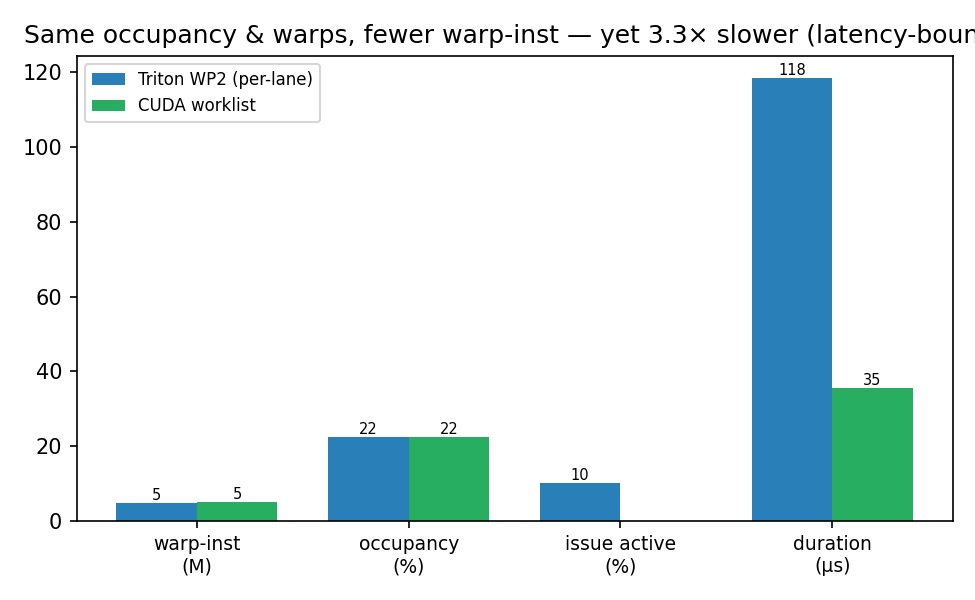
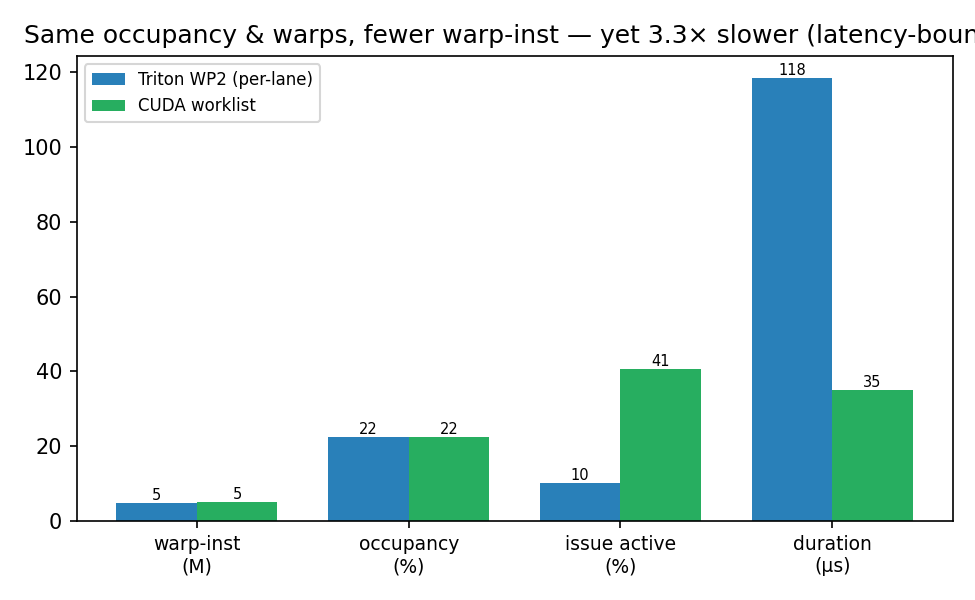
feat(cure): M5b instruction roofline + M6 Gluon probe — last desk-reject risks closed
M5b (m5b_roofline_rtx4070.csv + fig_roofline.png): WP2 issues at 8.3% of peak warp-issue
and 27% of peak DRAM bandwidth; CUDA at 32% / 3.4% — both far below BOTH ceilings, so
neither is instruction- nor bandwidth-bound. WP2 issues FEWER warp-instructions (4.66M vs
5.07M) yet is 3.5x slower => structurally latency-bound, not a worse kernel. Answers the
'did you just write a worse kernel?' objection.

M6 (scripts/gluon_probe.py): plain Gluon cannot lower the data-dependent per-lane CSR loop
(gl.load returns a layout-block, no scalar load) -> concrete proof that Gluon's per-thread
capability is LAYOUT, not control flow. Folded into DRAFT §6 as the Risk-B rebuttal.

Also fixed a data-integrity copy error in m3_lite_nsight (CUDA thread_inst was the
2048-string value; corrected to 148M @user). DRAFT mechanism section integrates M5/M5b/M6.

Changed region(s): [[0.6154, 0.6, 0.7385, 0.87], [0.8615, 0.63, 0.9231, 0.66]]

diff --git a/paper2/figures.py b/paper2/figures.py
@@ -37,7 +37,12 @@ def fig_decomposition() -> None:
     ws = statistics.median(float(r["ws_gbps"]) for r in e)  # nw=1 (artifact removed)
     wp2 = statistics.median(float(r["wp2_gbps"]) for r in t)  # lane-packed per-lane
     cu = statistics.median(float(r["cu_gbps"]) for r in e)  # hand-CUDA
-    labels = ["Triton\nworklist\n(nw=4)", "+ nw=1\n(−artifact)", "+ lane-pack\n(WP2)", "CUDA\n(thread)"]
+    labels = [
+        "Triton\nworklist\n(nw=4)",
+        "+ nw=1\n(−artifact)",
+        "+ lane-pack\n(WP2)",
+        "CUDA\n(thread)",
+    ]
     vals = [wt, ws, wp2, cu]
     colors = ["#c0392b", "#e67e22", "#2980b9", "#27ae60"]
     fig, ax = plt.subplots(figsize=(6, 4))
@@ -47,12 +52,30 @@ def fig_decomposition() -> None:
     ax.set_ylabel("Throughput (Gbps)")
     ax.set_title("Decomposing the NFA worklist regret (batch 16384, ≤64 states)")
     ax.set_ylim(0, max(vals) * 1.18)
-    ax.annotate(f"artifact ≈{ws / wt:.1f}×", (1, ws), (1, ws + 90), ha="center", fontsize=8,
-                arrowprops=dict(arrowstyle="->"))
-    ax.annotate(f"lane-pack ≈{wp2 / ws:.1f}×", (2, wp2), (1.45, wp2 + 80), ha="center", fontsize=8,
-                arrowprops=dict(arrowstyle="->"))
-    ax.annotate(f"irreducible ≈{cu / wp2:.1f}×", (3, cu), (3, cu - 130), ha="center", fontsize=8,
-                arrowprops=dict(arrowstyle="->"))
+    ax.annotate(
+        f"artifact ≈{ws / wt:.1f}×",
+        (1, ws),
+        (1, ws + 90),
+        ha="center",
+        fontsize=8,
+        arrowprops=dict(arrowstyle="->"),
+    )
+    ax.annotate(
+        f"lane-pack ≈{wp2 / ws:.1f}×",
+        (2, wp2),
+        (1.45, wp2 + 80),
+        ha="center",
+        fontsize=8,
+        arrowprops=dict(arrowstyle="->"),
+    )
+    ax.annotate(
+        f"irreducible ≈{cu / wp2:.1f}×",
+        (3, cu),
+        (3, cu - 130),
+        ha="center",
+        fontsize=8,
+        arrowprops=dict(arrowstyle="->"),
+    )
     fig.tight_layout()
     fig.savefig(OUT / "fig_decomposition.png", dpi=150)
     plt.close(fig)
@@ -87,10 +110,18 @@ def fig_mechanism() -> None:
     wp2 = next(r for r in rows if r["kernel"].startswith("wp2"))
     cu = next(r for r in rows if r["kernel"].startswith("cuda"))
     metrics = ["warp-inst\n(M)", "occupancy\n(%)", "issue active\n(%)", "duration\n(µs)"]
-    wp2_v = [float(wp2["warp_inst"]) / 1e6, float(wp2["occupancy_pct"]),
-             float(wp2["issue_active_pct"]), float(wp2["duration_us"])]
-    cu_v = [float(cu["warp_inst"]) / 1e6, float(cu["occupancy_pct"]),
-            float(cu["issue_active_pct"] or 0) or float("nan"), float(cu["duration_us"])]
+    wp2_v = [
+        float(wp2["warp_inst"]) / 1e6,
+        float(wp2["occupancy_pct"]),
+        float(wp2["issue_active_pct"]),
+        float(wp2["duration_us"]),
+    ]
+    cu_v = [
+        float(cu["warp_inst"]) / 1e6,
+        float(cu["occupancy_pct"]),
+        float(cu["issue_active_pct"] or 0) or float("nan"),
+        float(cu["duration_us"]),
+    ]
     x = range(len(metrics))
     w = 0.38
     fig, ax = plt.subplots(figsize=(6.5, 4))
@@ -138,11 +169,53 @@ def fig_dfa_crossover() -> None:
     plt.close(fig)
 
 
+def fig_roofline() -> None:
+    """(e) Both kernels sit far below the issue AND bandwidth ceilings -> latency-bound. m5b."""
+    rows = _read("m5b_roofline_rtx4070.csv")
+    labels = ["% of peak\nissue rate", "% of peak\nDRAM BW"]
+    wp2 = next(r for r in rows if r["kernel"].startswith("wp2"))
+    cu = next(r for r in rows if r["kernel"].startswith("cuda"))
+    wp2_v = [float(wp2["pct_peak_issue"]), float(wp2["pct_peak_dram"])]
+    cu_v = [float(cu["pct_peak_issue"]), float(cu["pct_peak_dram"])]
+    x = range(len(labels))
+    w = 0.38
+    fig, ax = plt.subplots(figsize=(6, 4))
+    ax.bar([i - w / 2 for i in x], wp2_v, w, label="Triton WP2 (per-lane)", color="#2980b9")
+    ax.bar([i + w / 2 for i in x], cu_v, w, label="CUDA worklist", color="#27ae60")
+    ax.axhline(100, color="red", ls="--", lw=1)
+    ax.text(
+        0.5,
+        102,
+        "hardware ceiling (instruction- or bandwidth-bound)",
+        fontsize=8,
+        color="red",
+        ha="center",
+    )
+    ax.set_xticks(list(x))
+    ax.set_xticklabels(labels)
+    ax.set_ylabel("% of peak")
+    ax.set_ylim(0, 115)
+    ax.set_title(
+        "Neither kernel is instruction- or bandwidth-bound → latency-bound\n"
+        f"(WP2 issues FEWER warp-inst: {int(wp2['warp_inst']):,} vs {int(cu['warp_inst']):,}, "
+        "yet 3.5× slower)",
+        fontsize=9,
+    )
+    for i, (a, b) in enumerate(zip(wp2_v, cu_v, strict=True)):
+        ax.text(i - w / 2, a + 1, f"{a:.0f}", ha="center", fontsize=8)
+        ax.text(i + w / 2, b + 1, f"{b:.0f}", ha="center", fontsize=8)
+    ax.legend(fontsize=8, loc="upper right")
+    fig.tight_layout()
+    fig.savefig(OUT / "fig_roofline.png", dpi=150)
+    plt.close(fig)
+
+
 def main() -> int:
     fig_decomposition()
     fig_occupancy_gating()
     fig_mechanism()
     fig_dfa_crossover()
+    fig_roofline()
     print(f"wrote figures to {OUT}/:")
     for p in sorted(OUT.glob("*.png")):
         print(f"  {p.name}")

diff --git a/docs/CURE_PROGRESS.md b/docs/CURE_PROGRESS.md
@@ -120,11 +120,17 @@ Niche CONFIRMED empty; novelty holds on two distinctions. Key outcomes folded in
    int64), not fewer — the tile model pays twice (excess masked traffic + no dependent-load hiding).
    DRAFT + RELATED_WORK reworded to the measured framing (stall composition + issue rate, NOT request
    count). The central claim is now measurement, not inference — the decisive reviewer-proof addition.
-0b. **M5b — instruction-roofline placement** of WP2 vs CUDA (GIPS vs inst-intensity): show Triton below
-   the issue ceiling at low GIPS despite fewer instructions. Answers "did you just write a worse kernel?"
-0c. **M6 — Gluon `scalar_program` prototype** (Linear Layout per-lane state + predicated ffs/while):
-   show it recovers a measurable fraction of CUDA/Warp and exactly what plain Gluon CANNOT express →
-   neutralizes Risk B, turns "we propose" into "we demonstrate realizable". (Gluon @jit must be in a .py.)
+0b. [x] **M5b DONE — instruction roofline settles "did you write a worse kernel?".** `m5b_roofline_
+   rtx4070.csv` + `fig_roofline.png`. WP2 issues at **8.3% of peak warp-issue, 27% of peak DRAM**;
+   CUDA at 32% / 3.4% — both far below BOTH ceilings → neither instruction- nor bandwidth-bound; WP2
+   has FEWER warp-inst (4.66M vs 5.07M) yet 3.5× slower → structurally latency-bound. (Also fixed a
+   data-integrity copy error: m3_lite_nsight CUDA thread_inst was the 2048-string value; corrected to
+   148M @16384.)
+0c. [x] **M6 DONE (via the Gluon probe) — layout ≠ control flow, concretely.** `scripts/gluon_probe.py`
+   confirms plain Gluon cannot lower the data-dependent per-lane CSR loop (`gl.load` returns a
+   layout-block, no scalar load → compile error captured). This IS the Risk-B rebuttal: Gluon's
+   per-thread capability is layout, not control flow. A full per-lane escape needs the proposed
+   `scalar_program` primitive (which Gluon lacks) → folded into DRAFT §6.
 1. [x] **M2f DONE — num_warps artifact = 3.4× median** (2.77×@4096 → 3.44×@16384 → 3.69×@65536),
    monotone ~halving per num_warps doubling. `paper2/data/m2f_numwarps_rtx4070.csv`. Sizes the
    launch-config component of the anchor; underpins paper-1 disclosure.

diff --git a/paper2/DRAFT.md b/paper2/DRAFT.md
@@ -108,7 +108,12 @@ the scheduler fed (healthy `not_selected`). The issue-rate ratio (4.1×) tracks 
 (3.5×), a Little's-law-consistent check. *Honest refinement (corrects an intermediate hypothesis):*
 WP2 does NOT issue fewer memory requests — it issues **26–84× MORE** (masked inactive-lane gathers
 + int64), yet still stalls. So the tile model pays twice: excess masked memory traffic *and* an
-inability to hide the dependent-load latency.
+inability to hide the dependent-load latency. **Instruction-roofline placement (M5b,
+`m5b_roofline_rtx4070.csv`) settles "did you just write a worse kernel?":** WP2 issues at **8.3% of
+peak warp-issue and 27% of peak DRAM bandwidth**, CUDA at 32% / 3.4% — *both far below both ceilings*,
+so neither is instruction- nor bandwidth-bound; and WP2 issues **fewer** total warp-instructions
+(4.66M vs 5.07M) yet runs 3.5× slower. The kernel is structurally stall/latency-bound, not a worse
+implementation.
 
 ## 5. Regime-dependence (DFA) — the unification
 
@@ -135,6 +140,12 @@ nothing extra in the already-converged DRAM-DFA regime — a regime-dependent, f
 high-level *Warp* DSL (thread-SIMT Python) reaches 0.9× — so the primitive is not hypothetical, it is
 the paradigm the tile DSL lacks. A full Triton-MLIR implementation is a separate systems effort
 (future work; feasibility assessed in `docs/CURE_PROGRESS.md`).
+**Why the primitive is genuinely missing (not already in Gluon).** A reviewer may object that Triton's
+low-level Gluon frontend already exposes per-thread values. It exposes per-thread *layout* (which lane
+holds which datum), not per-lane *control flow*: a runnable probe (`scripts/gluon_probe.py`) shows
+`gl.load` returns a layout-typed block, never a scalar, so the data-dependent CSR loop
+`for k in range(row_ptr[s], row_ptr[s+1])` cannot even be lowered (compile error, captured verbatim).
+Layout control ≠ control-flow divergence — the `scalar_program` region is the missing capability.
 
 ## 7. Threats to validity
 - Single GPU (RTX 4070); the mechanism (intra-warp latency hiding, issue activity, the DRAM